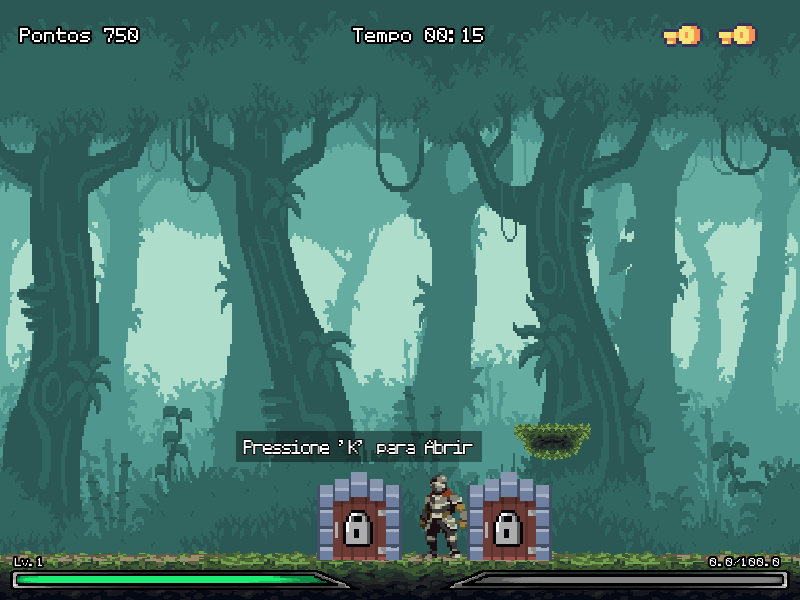
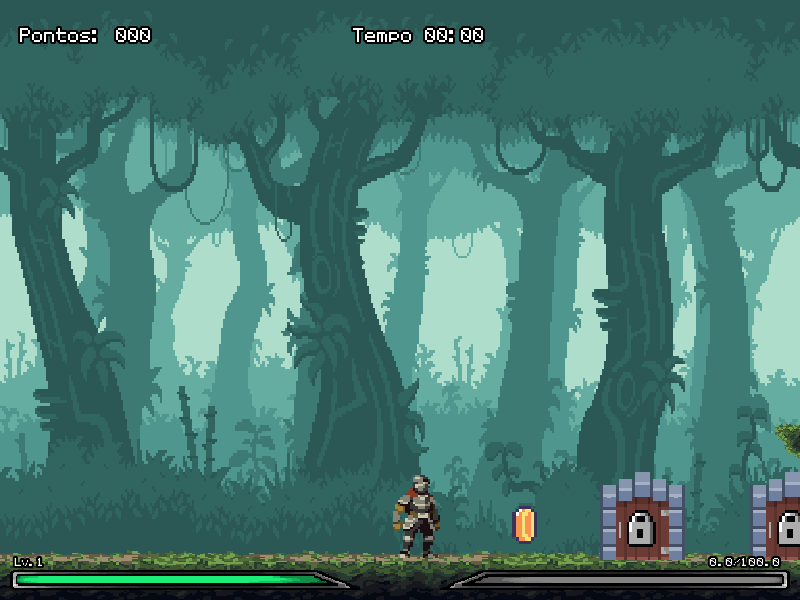
ajustar criacao de fase

diff --git a/Jungle++/src/Fase/Fase.cpp b/Jungle++/src/Fase/Fase.cpp
@@ -8,7 +8,7 @@ namespace Jungle {
     namespace Fase {
 
         Jogador::Jogador* Fase::pJogador = nullptr;
-        Observador::ObservadorFase* Fase::observadorFase = new Observador::ObservadorFase();
+        Observador::ObservadorFase* Fase::observadorFase = nullptr;
 
         Fase::Fase(const IDs::IDs ID_Fase, const IDs::IDs ID_Fundo):
             Ente(ID_Fase), fundo(ID_Fundo), listaPersonagens(new Lista::ListaEntidade()), listaObstaculos(new Lista::ListaEntidade()),
@@ -26,6 +26,11 @@ namespace Jungle {
                 std::cout << "Jungle::Fase::nao foi possivel criar um Gerenciador de Colisao" << std::endl;
                 exit(1);
             }
+
+            if(observadorFase == nullptr){
+                observadorFase = new Observador::ObservadorFase();
+            }
+
             observadorFase->setFase(this);
             textoPontuacao.setTamanhoBorda(2);
             textoTempo.setTamanhoBorda(2);
@@ -42,9 +47,14 @@ namespace Jungle {
             }
 
             if(listaPersonagens != nullptr){
-                delete(listaPersonagens);
+                if(getJogador() != nullptr && pJogador != nullptr){
+                    delete(listaPersonagens);
+                    pJogador = nullptr;
+                    std::cout << "deletou jogador" << std::endl;
+                } else {
+                    delete(listaPersonagens);
+                }
                 listaPersonagens = nullptr;
-                pJogador = nullptr;
             }
 
             if(listaObstaculos != nullptr){
@@ -247,6 +257,10 @@ namespace Jungle {
         }
 
         void Fase::criarJogador(const sf::Vector2f pos){
+            if(pJogador != nullptr){
+                std::cout << "ERRO::pJogador ja existe" << std::endl;
+                exit(1);
+            }
             Item::Arma* espadaJogador = new Item::Arma(IDs::IDs::espada_jogador);
             if(espadaJogador == nullptr){
                 std::cout << "Fase::nao foi possivel criar espada do jogador" << std::endl;
@@ -262,6 +276,10 @@ namespace Jungle {
         }
 
         void Fase::criarJogador(const std::vector<std::string> atributos, const std::vector<std::string> atributosArma){
+            if(pJogador != nullptr){
+                std::cout << "ERRO::pJogador ja existe" << std::endl;
+                exit(1);
+            }
             pJogador = new Jogador::Jogador(atributos);
             if(pJogador == nullptr){
                 std::cout << "Fase::jogador eh nullptr" << std::endl;
@@ -295,8 +313,15 @@ namespace Jungle {
             observadorFase->setFase(this);
             if(getJogador() == nullptr && pJogador != nullptr){
                 pJogador->setPos(sf::Vector2f(200.0f, 400.0f));
-                listaPersonagens->addEntidade(static_cast<Entidade::Entidade*>(pJogador));
-                listaPersonagens->addEntidade(static_cast<Entidade::Entidade*>(pJogador->getArma()));
+                listaPersonagens->addEntidade(static_cast<Entidade::Entidade*>(pJogador), 0);
+                listaPersonagens->addEntidade(static_cast<Entidade::Entidade*>(pJogador->getArma()), 1);
+            }
+        }
+
+        void Fase::removerJogadorLista(){
+            if(getJogador() != nullptr && pJogador != nullptr){
+                listaPersonagens->removerEntidade(static_cast<Entidade::Entidade*>(pJogador), false);
+                listaPersonagens->removerEntidade(static_cast<Entidade::Entidade*>(pJogador->getArma()), false);
             }
         }
 
@@ -311,14 +336,6 @@ namespace Jungle {
          const unsigned int Fase::getPontuacaoJogador() const {
             return pontuacaoJogador;
          }
-
-         Lista::ListaEntidade* Fase::getListaPersonagem(){
-            return listaPersonagens;
-         }
-
-        Lista::ListaEntidade* Fase::getListaObstaculo(){
-            return listaObstaculos;
-        }
 
         void Fase::setPontuacao(const unsigned int pontuacaoJogador){
             this->pontuacaoJogador = pontuacaoJogador;
@@ -374,6 +391,25 @@ namespace Jungle {
             linha += '\n';
             linha += textoTempo.getString();
             return linha;
+        }
+
+        const std::vector<std::string> Fase::salvarEntidades(){
+            std::vector<std::string> linhas;
+            for(int i = 0; i < listaPersonagens->getTam(); i++){
+                Entidade::Entidade* entidade = listaPersonagens->operator[](i);
+                if(entidade != nullptr){
+                    std::string linha = entidade->salvar();
+                    linhas.push_back(linha);
+                }
+            }
+            for(int i = 0; i < listaObstaculos->getTam(); i++){
+                Entidade::Entidade* entidade = listaObstaculos->operator[](i);
+                if(entidade != nullptr){
+                    std::string linha = entidade->salvar();
+                    linhas.push_back(linha);
+                }
+            }
+            return linhas;
         }
 
         void Fase::executar(){

diff --git a/Jungle++/src/Menu/MenuSalvarJogada.cpp b/Jungle++/src/Menu/MenuSalvarJogada.cpp
@@ -1,5 +1,7 @@
 #include "../../include/Menu/MenuSalvarJogada.hpp"
 #include "../../include/Lista/ListaEntidade.hpp"
+#include "../../include/Gerenciador/GerenciadorEstado.hpp"
+#include "../../include/Fase/Fase.hpp"
 
 namespace Jungle {
 
@@ -50,26 +52,14 @@ namespace Jungle {
         }
 
         void MenuSalvarJogada::salvarJogada(){
-            Lista::ListaEntidade* pListaPersonagem = fase->getListaPersonagem();
-            Lista::ListaEntidade* pListaObstaculo = fase->getListaObstaculo();
+            Gerenciador::GerenciadorEstado* pGEstado = Gerenciador::GerenciadorEstado::getGerenciadorEstado();
+            Estado::Estado* estado = pGEstado->getEstado(2);
+            Estado::EstadoJogar* pEstadoJogadr = dynamic_cast<Estado::EstadoJogar*>(estado);
+        
+            std::map<IDs::IDs, Fase::Fase*> mapFase = pEstadoJogadr->getMapFase();
+            const IDs::IDs ID_FaseAtual = pEstadoJogadr->getIDFaseAtual();
 
-            std::vector<std::string> linhasPersonagem;
-            for(int i = 0; i < pListaPersonagem->getTam(); i++){
-                Entidade::Entidade* entidade = pListaPersonagem->operator[](i);
-                if(entidade != nullptr){
-                    std::string linha = entidade->salvar();
-                    linhasPersonagem.push_back(linha);
-                }
-            }
-
-            std::vector<std::string> linhasObstaculo;
-            for(int i = 0; i < pListaObstaculo->getTam(); i++){
-                Entidade::Entidade* entidade = pListaObstaculo->operator[](i);
-                if(entidade != nullptr){
-                    std::string linha = entidade->salvar();
-                    linhasObstaculo.push_back(linha);
-                }
-            }
+            std::vector<std::string> linhas = fase->salvarEntidades();
             
             const std::string caminhoArquivoEntidades = (*itCards)->getCaminhoArquivoEntidades();
             const std::string caminhoArquivoFase = (*itCards)->getCaminhoArquivoFase();
@@ -77,9 +67,13 @@ namespace Jungle {
 
             gerenciadorArquivo.removeArquivo(caminhoArquivoEntidades.c_str());
             gerenciadorArquivo.removeArquivo(caminhoArquivoFase.c_str());
-            gerenciadorArquivo.gravarConteudo(caminhoArquivoEntidades.c_str(), linhasPersonagem);
-            gerenciadorArquivo.gravarConteudo(caminhoArquivoEntidades.c_str(), linhasObstaculo);
-            gerenciadorArquivo.gravarConteudo(caminhoArquivoFase.c_str(), fase->salvar());
+            gerenciadorArquivo.gravarConteudo(caminhoArquivoEntidades.c_str(), linhas);
+
+            std::string linhasFase = std::to_string(static_cast<int>(ID_FaseAtual));
+            linhasFase += '\n';
+            linhasFase += fase->salvar();
+
+            gerenciadorArquivo.gravarConteudo(caminhoArquivoFase.c_str(), linhasFase);
 
             fase->desenhar();
 
@@ -90,6 +84,19 @@ namespace Jungle {
             textura.update(*(static_cast<sf::Window*>(window)));
             sf::Image imagem = textura.copyToImage();
             imagem.saveToFile(caminhoImagem);
+
+            std::map<IDs::IDs, Fase::Fase*>::iterator itMapFase = mapFase.begin();
+            while(itMapFase != mapFase.end()){
+                Fase::Fase* aux = (*itMapFase).second;
+                if(aux != fase && aux != nullptr){
+                    linhas = aux->salvarEntidades();
+                    std::cout << linhas[0] << std::endl;
+                    gerenciadorArquivo.gravarConteudo(caminhoArquivoEntidades.c_str(), std::vector<std::string>{"=========="});
+                    gerenciadorArquivo.gravarConteudo(caminhoArquivoEntidades.c_str(), linhas);
+                    std::cout << "aaaaaa ";
+                }
+                itMapFase++;
+            }
         }
 
         void MenuSalvarJogada::selecionaEsquerda(){

diff --git a/Jungle++/include/Lista/Lista.hpp b/Jungle++/include/Lista/Lista.hpp
@@ -16,6 +16,7 @@ namespace Jungle {
             Lista();
             ~Lista();
             void addElemento(TL* elemento);
+            void addElemento(TL* elemento, int pos);
             void removerElemento(TL* elemento, const bool deletar);
             void removerElemento(int pos, const bool deletar);
             int getTam();
@@ -53,6 +54,43 @@ namespace Jungle {
             } else {
                 pUltimo->setProx(novoElemento);
                 pUltimo = novoElemento;
+            }
+            tam++;
+        }
+
+        template<class TL>
+        void Lista<TL>::addElemento(TL* elemento, int pos){
+            if(pos > tam || pos < 0){
+                std::cout << "ERRO::Lista::posicao nao eh compativel com o tamanho da lista" << std::endl;
+                exit(1);
+            }
+            if(elemento == nullptr){
+                std::cout << "ERROR::Lista elemento eh nullptr" << std::endl;
+                exit(1);
+            }
+            Elemento<TL>* novoElemento = new Elemento<TL>();
+            if(novoElemento == nullptr){
+                std::cout << "ERROR::Lista novoElemento eh nullptr" << std::endl;
+                exit(1);
+            }
+            novoElemento->setElemento(elemento);
+            if(pInicio == nullptr){
+                pInicio = novoElemento;
+                pUltimo = novoElemento;
+            } else {
+                Elemento<TL>* aux = pInicio;
+                Elemento<TL>* aux2 = nullptr;
+                for(int i = 0; i < pos; i++){
+                    aux2 = aux;
+                    aux = aux->getProx();
+                }
+                if(aux2 == nullptr){
+                    novoElemento->setProx(aux);
+                    pInicio = novoElemento;
+                } else {
+                    aux2->setProx(novoElemento);
+                    novoElemento->setProx(aux);
+                }
             }
             tam++;
         }

diff --git a/Jungle++/src/Estado/EstadoJogar.cpp b/Jungle++/src/Estado/EstadoJogar.cpp
@@ -41,12 +41,24 @@ namespace Jungle {
         }
 
         void EstadoJogar::criarFase(){
-            Fase::Fase* fase1 = static_cast<Fase::Fase*>(new Fase::FlorestaBranca(1));
-            Fase::Fase* fase2 = static_cast<Fase::Fase*>(new Fase::FlorestaBranca(2));
-            this->ID_FaseAtual = IDs::IDs::floresta_branca_parte_1;
-            mapFase.insert(std::pair<IDs::IDs, Fase::Fase*>(ID_FaseAtual, fase1));
-            mapFase.insert(std::pair<IDs::IDs, Fase::Fase*>(IDs::IDs::floresta_branca_parte_2, fase2));
-            fase1->mudarFase();
+            if(ID == IDs::IDs::jogar_florestaBranca){
+                Fase::Fase* fase1 = static_cast<Fase::Fase*>(new Fase::FlorestaBranca(1));
+                Fase::Fase* fase2 = static_cast<Fase::Fase*>(new Fase::FlorestaBranca(2));
+                this->ID_FaseAtual = IDs::IDs::floresta_branca_parte_1;
+                mapFase.insert(std::pair<IDs::IDs, Fase::Fase*>(ID_FaseAtual, fase1));
+                mapFase.insert(std::pair<IDs::IDs, Fase::Fase*>(IDs::IDs::floresta_branca_parte_2, fase2));
+                //fase2->mudarFase();
+                fase1->mudarFase();
+                //mudarFase(ID_FaseAtual);
+            }
+        }
+
+        std::map<IDs::IDs, Fase::Fase*> EstadoJogar::getMapFase(){
+            return mapFase;
+        }
+
+        const IDs::IDs EstadoJogar::getIDFaseAtual() const{
+            return ID_FaseAtual;
         }
 
         Fase::Fase* EstadoJogar::getFase(){
@@ -58,6 +70,7 @@ namespace Jungle {
             while(it != mapFase.end()){
                 if(it->second != nullptr){
                     if(it->first == ID_Fase){
+                        mapFase[ID_FaseAtual]->removerJogadorLista();
                         this->ID_FaseAtual = ID_Fase;
                         mapFase[ID_FaseAtual]->mudarFase();
                         break;

diff --git a/Jungle++/include/Fase/Fase.hpp b/Jungle++/include/Fase/Fase.hpp
@@ -81,13 +81,13 @@ namespace Jungle {
             Entidade::Personagem::Jogador::Jogador* getJogador();
             void mudarEstadoObservador();
             void mudarFase();
+            void removerJogadorLista();
             const unsigned int getPontuacaoJogador() const;
             virtual void recuperarJogada(const std::string arquivoEntidades, const std::vector<std::string> vectorInfoFase) = 0;
-            Lista::ListaEntidade* getListaPersonagem();
-            Lista::ListaEntidade* getListaObstaculo();
             void setPontuacao(const unsigned int pontuacaoJogador);
             void atualizarTempo();
             void atualizarPontuacao();
+            const std::vector<std::string> salvarEntidades();
             const std::string salvar();
         };
 

diff --git a/Jungle++/src/Gerenciador/GerenciadorEstado.cpp b/Jungle++/src/Gerenciador/GerenciadorEstado.cpp
@@ -129,6 +129,18 @@ namespace Jungle {
             return nullptr;
         }
 
+        Estado::Estado* GerenciadorEstado::getEstado(const int qtdRemove){
+            std::stack<Estado::Estado*> pilhaEstadoAux = pilhaEstados;
+            int i = 0;
+            while(i < qtdRemove && !pilhaEstadoAux.empty()){
+                pilhaEstadoAux.pop(); 
+                i++;
+            }
+            if(!pilhaEstadoAux.empty()){
+                return pilhaEstadoAux.top();
+            }
+            return nullptr;
+        }
 
         void GerenciadorEstado::executar(){
             //executa o estado que está no topo da minha pilha

diff --git a/Jungle++/src/Fase/FlorestaBranca.cpp b/Jungle++/src/Fase/FlorestaBranca.cpp
@@ -169,6 +169,14 @@ namespace Jungle {
             for(int i = -2; i < 8; i++){
                 criarPlataforma(sf::Vector2f(i * 350.0f, 550.0f), sf::Vector2f(350.0f, 50.0f), false, 0.0f, false);
             }
+            for(int i = 0; i < 3; i++){
+                criarEsqueleto(sf::Vector2f(400.0f * (i + 0.5f), 0.0f), 1);
+            }
+            for(int i = 0; i < 3; i++){
+                criarEsqueleto(sf::Vector2f(400.0f * (2 + i + 0.5f), 0.0f), 3);
+            }
+            criarAlma(sf::Vector2f(200.0f, 500.0f), 2);
+            criarAlma(sf::Vector2f(500.0f, 500.0f), 4);
         }
 
     }

diff --git a/Jungle++/src/Lista/ListaObservador.cpp b/Jungle++/src/Lista/ListaObservador.cpp
@@ -19,11 +19,11 @@ namespace Jungle {
         }
 
         void ListaObservador::removerObservador(Observador::Observador* observador){
-            objListaObservador.removerElemento(observador);
+            objListaObservador.removerElemento(observador, true);
         }
 
         void ListaObservador::removerObservador(int pos){
-            objListaObservador.removerElemento(pos);
+            objListaObservador.removerElemento(pos, true);
         }
 
         int ListaObservador::getTam(){

diff --git a/Jungle++/include/Estado/EstadoJogar.hpp b/Jungle++/include/Estado/EstadoJogar.hpp
@@ -24,6 +24,8 @@ namespace Jungle {
             ~EstadoJogar();
             void criarFase(const std::string arquivoEntidades, std::vector<std::string> vectorInfoFase);
             void criarFase();
+            std::map<IDs::IDs, Fase::Fase*> getMapFase();
+            const IDs::IDs getIDFaseAtual() const;
             Fase::Fase* getFase();
             void mudarFase(const IDs::IDs ID_Fase);
             void mudarEstadoObservador();

diff --git a/Jungle++/src/Lista/ListaEntidade.cpp b/Jungle++/src/Lista/ListaEntidade.cpp
@@ -18,6 +18,10 @@ namespace Jungle {
             objListaEntidade.addElemento(entidade);
         }
 
+        void ListaEntidade::addEntidade(Entidade::Entidade* entidade, int pos){
+            objListaEntidade.addElemento(entidade, pos);
+        }
+
         void ListaEntidade::removerEntidade(Entidade::Entidade* entidade, const bool deletar){
             objListaEntidade.removerElemento(entidade, deletar);
         }

diff --git a/Jungle++/include/Lista/ListaEntidade.hpp b/Jungle++/include/Lista/ListaEntidade.hpp
@@ -14,6 +14,7 @@ namespace Jungle {
             ListaEntidade();
             ~ListaEntidade();
             void addEntidade(Entidade::Entidade* entidade);
+            void addEntidade(Entidade::Entidade* entidade, int pos);
             void removerEntidade(Entidade::Entidade* entidade, const bool deletar = true);
             void removerEntidade(int pos, const bool deletar = true);
             int getTam();

diff --git a/Jungle++/include/Gerenciador/GerenciadorEstado.hpp b/Jungle++/include/Gerenciador/GerenciadorEstado.hpp
@@ -31,6 +31,7 @@ namespace Jungle {
             ~GerenciadorEstado();
             static GerenciadorEstado* getGerenciadorEstado();
             void executar();
+            Estado::Estado* getEstado(const int qtdRemove);
             void addEstado(const IDs::IDs ID);
             void removerEstado(const int qtd);
             void removerEstado();
